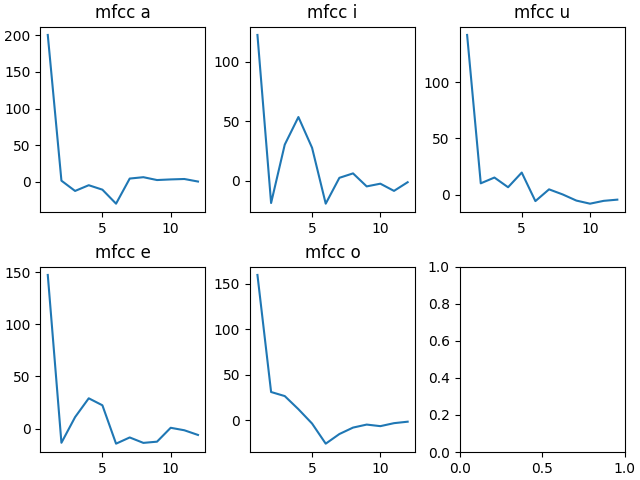
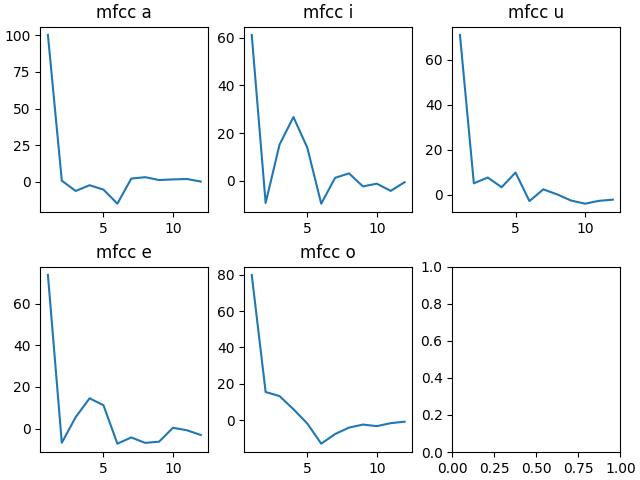
修正

diff --git a/ex5/t_imamura/main.py b/ex5/t_imamura/main.py
@@ -227,15 +227,14 @@ def mel_filter_bank(data: np.ndarray, sample_rate: int, channel_num: int):
         if h_index == 0:  # 下限だけ例外処理
             for k in range(h[1] - h[0] * 2, h[0]):
                 # 下限のときの一つ前の周波数は0
-                mfl_per[k] = (k - 0) / (h[0] - 0) * 2 / (2 * h[1] - 2 * h[0])
+                mfl_per[k] = (k - 0) / (h[0] - 0) / (2 * h[1] - 2 * h[0])
             for k in range(h[0], h[1]):
-                mfl_per[k] = (h[1] - k) / (h[1] - h[0]) * 2 / (2 * h[1] - 2 * h[0])
+                mfl_per[k] = (h[1] - k) / (h[1] - h[0]) / (2 * h[1] - 2 * h[0])
         elif h_index == len(h) - 1:  # 上限だけ例外処理
             for k in range(h[h_index - 1], h[h_index]):
                 mfl_per[k] = (
                     (k - h[h_index - 1])
                     / (h[h_index] - h[h_index - 1])
-                    * 2
                     / (2 * h[h_index] - 2 * h[h_index - 1])
                 )
             for k in range(h[h_index], data.shape[0] // 2):
@@ -243,7 +242,6 @@ def mel_filter_bank(data: np.ndarray, sample_rate: int, channel_num: int):
                 mfl_per[k] = (
                     (data.shape[0] // 2 - 1 - k)
                     / (data.shape[0] // 2 - 1 - h[h_index])
-                    * 2
                     / (2 * h[h_index] - 2 * h[h_index - 1])
                 )
         else:
@@ -251,14 +249,12 @@ def mel_filter_bank(data: np.ndarray, sample_rate: int, channel_num: int):
                 mfl_per[k] = (
                     (k - h[h_index - 1])
                     / (h[h_index] - h[h_index - 1])
-                    * 2
                     / (h[h_index + 1] - h[h_index - 1])
                 )
             for k in range(h[h_index], h[h_index + 1]):
                 mfl_per[k] = (
                     (h[h_index + 1] - k)
                     / (h[h_index + 1] - h[h_index])
-                    * 2
                     / (h[h_index + 1] - h[h_index - 1])
                 )
 
@@ -289,6 +285,19 @@ def MFCC(
     for fft_per in np.abs(fft):
         fft_log = 20 * np.log10(fft_per)  # 対数をとる(ついでにdb変換)
         mel_freq, mel_spec = mel_filter_bank(fft_log, sample_rate, 20)
+        if counter == 30:
+            fig0, ax0 = plt.subplots(1, 1)
+            ax0.plot(
+                np.linspace(0, sample_rate // 2, F_size // 2),
+                fft_log[: F_size // 2],
+                label="Spectrogram",
+            )
+            ax0.plot(mel_freq, mel_spec, label="Mel spectrogram")
+            ax0.set_title("Mel spectrogram")
+            ax0.set_xlabel("Frequency [Hz]")
+            ax0.set_ylabel("Amplitude [db]")
+            ax0.legend()
+            fig0.savefig("mel_spec.png")
         mel_spec_result.append(mel_spec)
         dct_result = scipy.fftpack.dct(mel_spec, type=2, norm="ortho", axis=-1)
         mfcc_result.append(dct_result[1 : dim + 1])

diff --git a/ex5/t_imamura/func.py b/ex5/t_imamura/func.py
@@ -1,4 +1,4 @@
-"""The Function File."""
+"""The function file."""
 
 import copy
 
@@ -568,15 +568,14 @@ def mel_filter_bank(data: np.ndarray, sample_rate: int, channel_num: int):
         if h_index == 0:  # 下限だけ例外処理
             for k in range(h[1] - h[0] * 2, h[0]):
                 # 下限のときの一つ前の周波数は0
-                mfl_per[k] = (k - 0) / (h[0] - 0) * 2 / (2 * h[1] - 2 * h[0])
+                mfl_per[k] = (k - 0) / (h[0] - 0) / (2 * h[1] - 2 * h[0])
             for k in range(h[0], h[1]):
-                mfl_per[k] = (h[1] - k) / (h[1] - h[0]) * 2 / (2 * h[1] - 2 * h[0])
+                mfl_per[k] = (h[1] - k) / (h[1] - h[0]) / (2 * h[1] - 2 * h[0])
         elif h_index == len(h) - 1:  # 上限だけ例外処理
             for k in range(h[h_index - 1], h[h_index]):
                 mfl_per[k] = (
                     (k - h[h_index - 1])
                     / (h[h_index] - h[h_index - 1])
-                    * 2
                     / (2 * h[h_index] - 2 * h[h_index - 1])
                 )
             for k in range(h[h_index], data.shape[0] // 2):
@@ -584,7 +583,6 @@ def mel_filter_bank(data: np.ndarray, sample_rate: int, channel_num: int):
                 mfl_per[k] = (
                     (data.shape[0] // 2 - 1 - k)
                     / (data.shape[0] // 2 - 1 - h[h_index])
-                    * 2
                     / (2 * h[h_index] - 2 * h[h_index - 1])
                 )
         else:
@@ -592,14 +590,12 @@ def mel_filter_bank(data: np.ndarray, sample_rate: int, channel_num: int):
                 mfl_per[k] = (
                     (k - h[h_index - 1])
                     / (h[h_index] - h[h_index - 1])
-                    * 2
                     / (h[h_index + 1] - h[h_index - 1])
                 )
             for k in range(h[h_index], h[h_index + 1]):
                 mfl_per[k] = (
                     (h[h_index + 1] - k)
                     / (h[h_index + 1] - h[h_index])
-                    * 2
                     / (h[h_index + 1] - h[h_index - 1])
                 )
 
